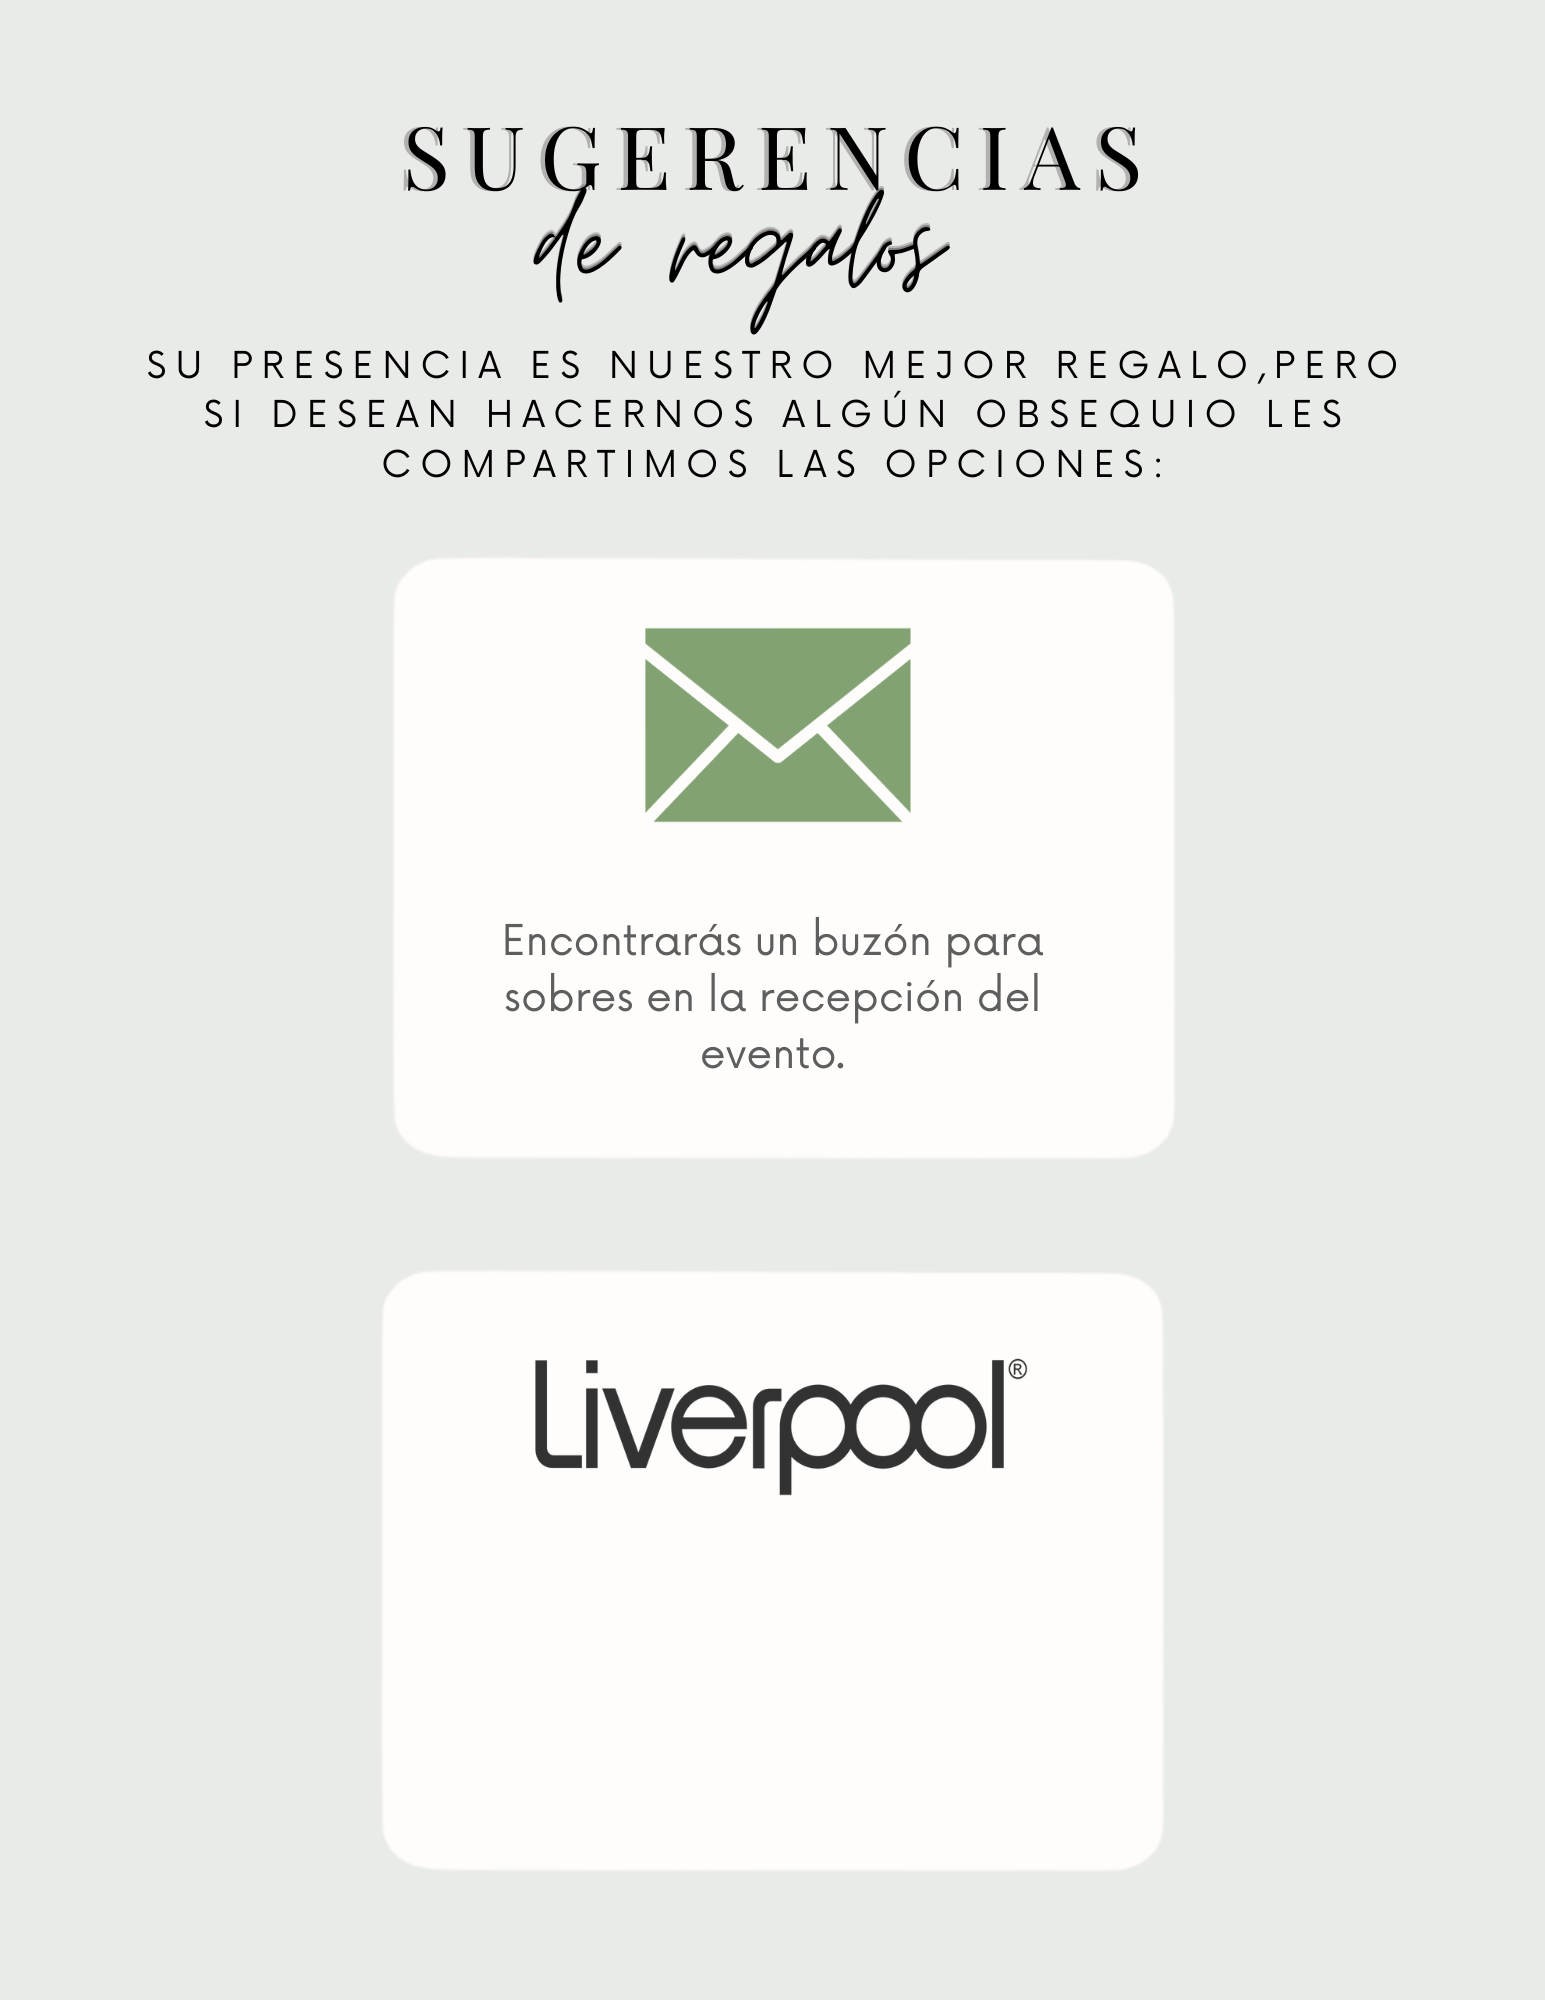
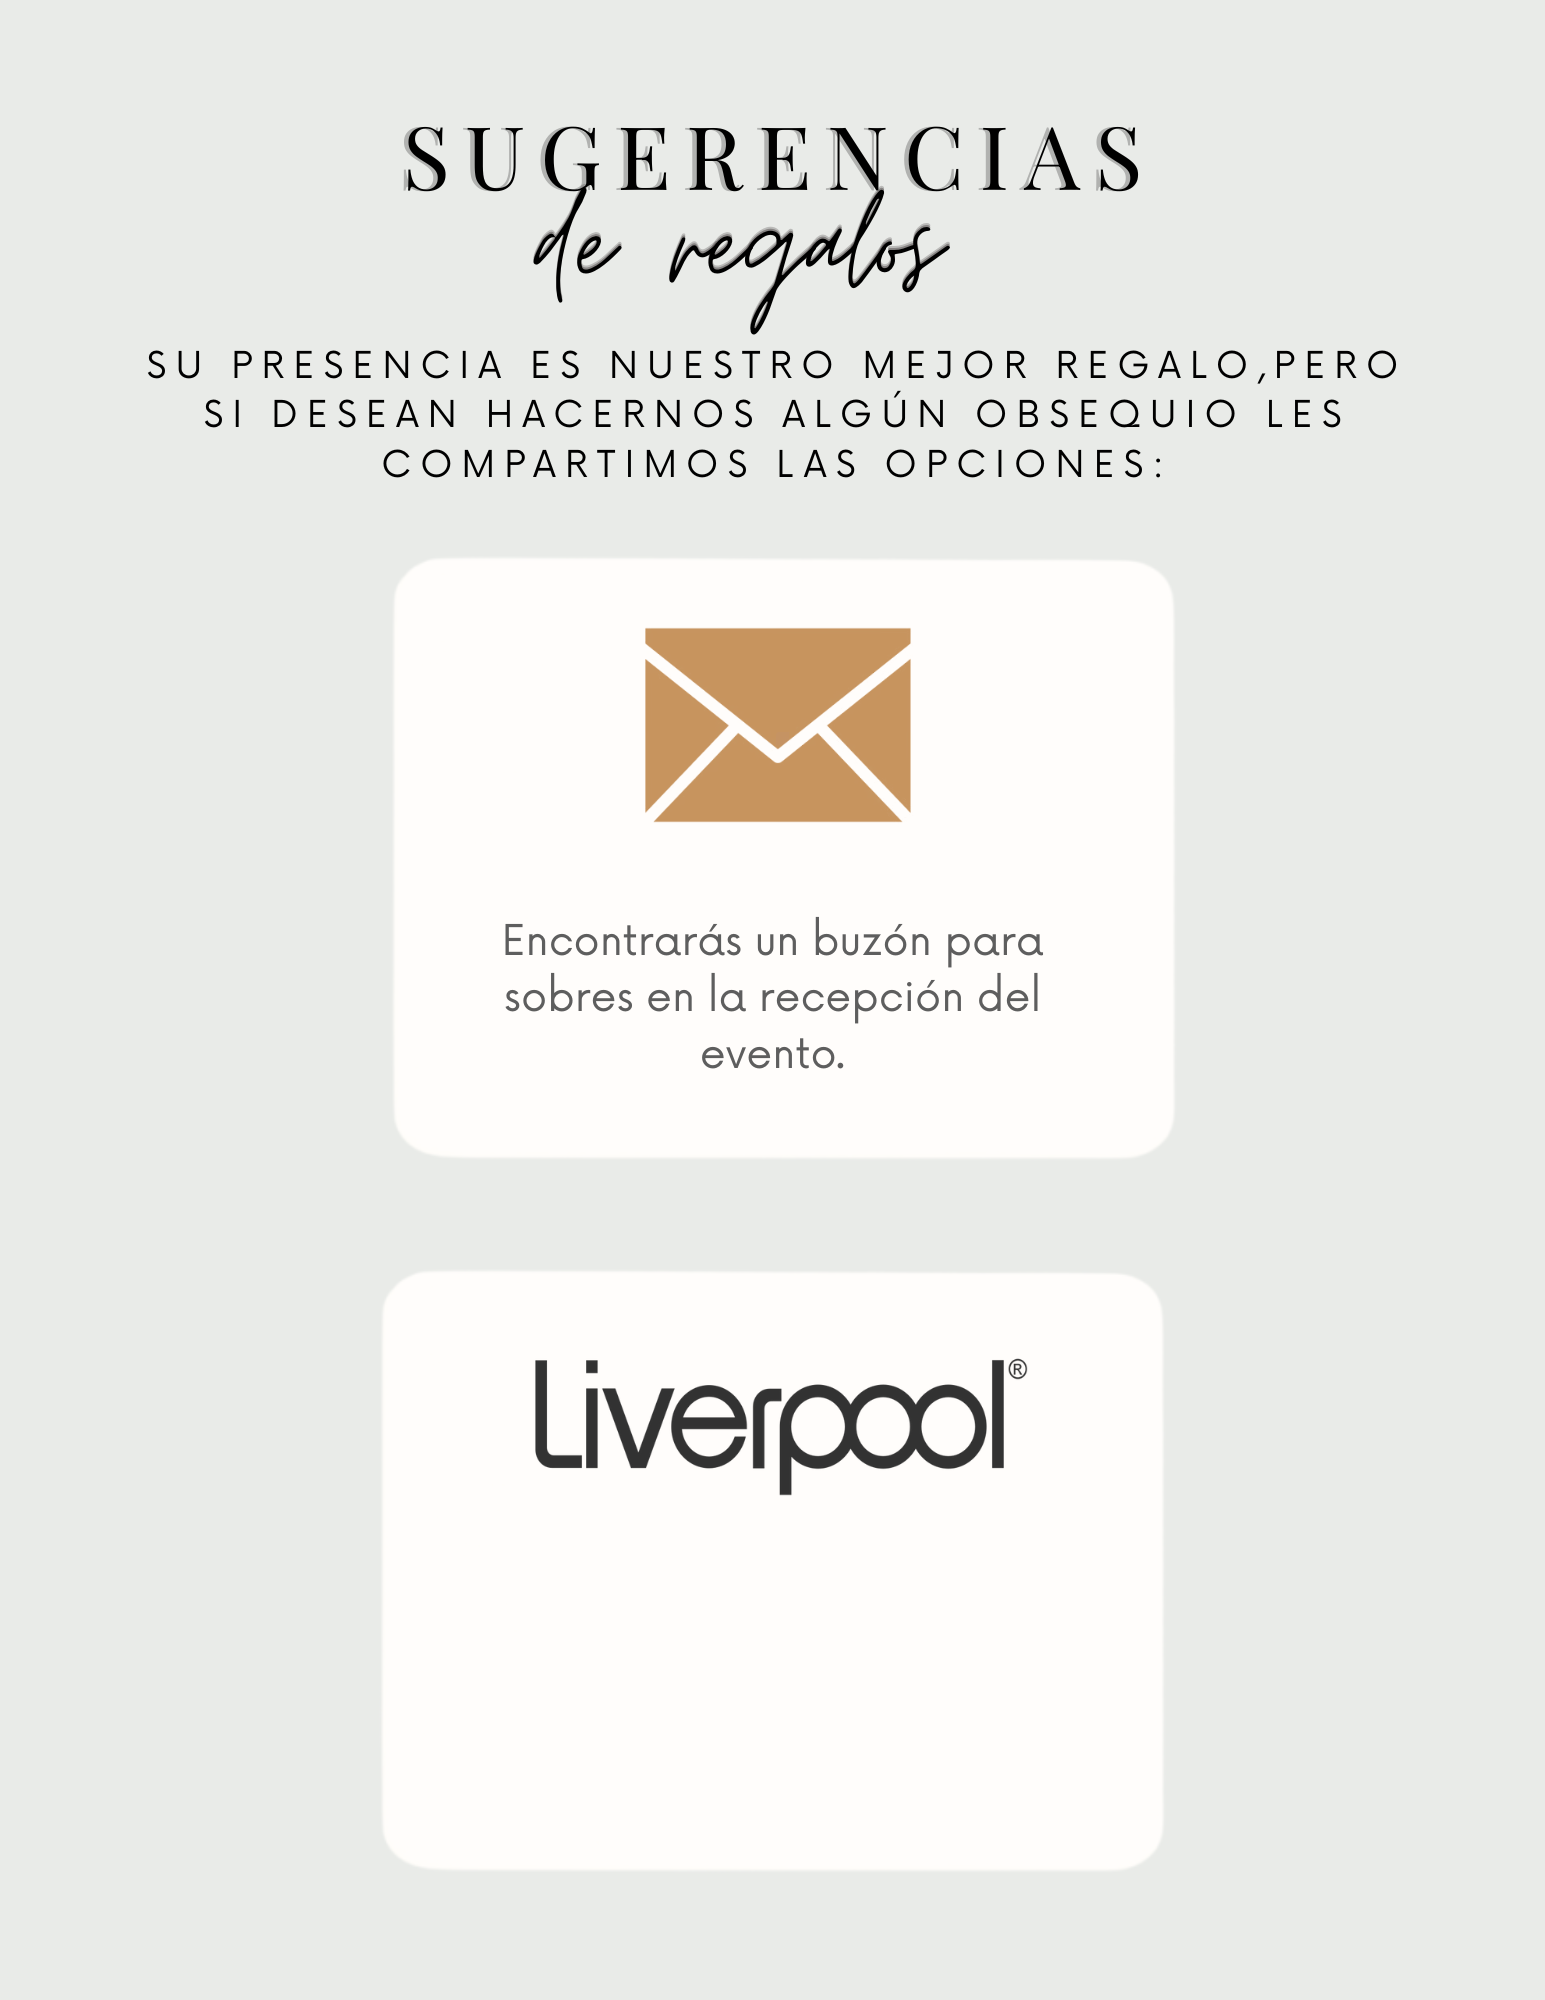
cambios forms

Changed region(s): [[0.4039, 0.31, 0.5903, 0.434]]

diff --git a/naylayale/script.js b/naylayale/script.js
@@ -190,40 +190,6 @@ startAutoplay();
   });
 //fin frase boda
 
-//inicio frase boda final
- window.addEventListener("load", function() {
-    const texto = `Nos encantaría contar con tu presencia para celebrar juntos este día lleno de amor, alegría y momentos inolvidables`;
-
-    const elemento = document.getElementById("frase-boda-final");
-    let i = 0;
-    let escribiendo = false;
-
-    function escribir() {
-      if (i < texto.length) {
-        const caracter = texto[i] === "\n" ? "<br>" : texto[i];
-        elemento.innerHTML += caracter;
-        i++;
-        setTimeout(escribir, 45);
-      } else {
-        elemento.style.setProperty("animation", "none"); // opcional: detiene cursor
-      }
-    }
-
-    
-
-    // Observador para iniciar cuando el elemento esté visible
-    const observer = new IntersectionObserver(entries => {
-      entries.forEach(entry => {
-        if (entry.isIntersecting && !escribiendo) {
-          escribiendo = true;
-          escribir();
-        }
-      });
-    }, { threshold: 0.2 }); // empieza al estar 20% visible
-
-    observer.observe(elemento);
-  });
-//fin frase boda final
 
 //inicio titulo animado
 window.addEventListener('load', () => {
@@ -304,10 +270,12 @@ window.addEventListener('load', () => {
     const invitado = data.find(item => item.id == id);
     const nombreEl = document.getElementById("nombre");
     const personasEl = document.getElementById("personas");
-
+    const idHidden = document.getElementById("idInvitadoHidden");
+    
     if (invitado) {
       if(nombreEl) nombreEl.textContent = invitado.nombre;
       if(personasEl) personasEl.textContent = invitado.personas;
+      if (idHidden) idHidden.value = invitado.id;
 
       // Ajustar máximo de acompañantes basado en pases
       const select = document.getElementById("acompanantes");
@@ -426,30 +394,65 @@ document.addEventListener("DOMContentLoaded", () => {
 //FIN ANIMACION AL HACER SCROLL
 
 
-  // --- Enviar formulario ---
+// --- Enviar formulario ---
+document.addEventListener("DOMContentLoaded", () => {
+  const form = document.getElementById("rsvpForm");
+  const mensaje = document.getElementById("mensaje");
+
   form.addEventListener("submit", (e) => {
     e.preventDefault();
 
-    const nombre = document.getElementById("nombre").value.trim();
-    const telefono = document.getElementById("telefono").value.trim();
-    const asistenciaRadios = document.getElementsByName("entry.1782443328");
-    let asistencia = "";
-    for (let radio of asistenciaRadios) if (radio.checked) { asistencia = radio.value; break; }
+    // --- Referencias ---
+    const nombreInput = document.querySelector('input[name="entry.1850873592"]');
+    const telefonoInput = document.querySelector('input[name="entry.1902016643"]');
+    const comentariosInput = document.querySelector('textarea[name="entry.404057514"]');
+    const asistenciaRadios = document.getElementsByName("entry.207305379");
+    const select = document.querySelector('select[name="acompanantesVisible"]');
+    const hiddenInput = document.querySelector('input[name="entry.1055150468"]');
+    const idHidden = document.getElementById("idInvitadoHidden");
 
-    if (!nombre || !telefono || !asistencia || !select.value) {
+    // Si existe el id del invitado, se asigna
+    if (idHidden && typeof invitado !== "undefined") {
+      idHidden.value = invitado.id;
+    }
+
+    // --- Obtener valores con protección ---
+    const nombre = nombreInput?.value?.trim() || "";
+    const telefono = telefonoInput?.value?.trim() || "";
+    const comentarios = comentariosInput?.value?.trim() || "";
+
+    let asistencia = "";
+    for (let radio of asistenciaRadios) {
+      if (radio.checked) {
+        asistencia = radio.value;
+        break;
+      }
+    }
+
+    // --- Validaciones ---
+    if (!nombre || !telefono || !asistencia || !select?.value) {
       alert("Por favor llena todos los campos antes de enviar.");
       return;
     }
+
     if (!/^\d{10}$/.test(telefono)) {
       alert("Ingresa un número de teléfono válido de 10 dígitos.");
       return;
     }
 
-    hiddenInput.value = select.value;
+    // --- Convertir valor del select a texto y pasarlo al input oculto ---
+    if (hiddenInput && select) {
+      const textoSeleccionado = select.options[select.selectedIndex]?.text || select.value;
+      hiddenInput.value = textoSeleccionado;
+    }
 
-    const url = "https://docs.google.com/forms/u/0/d/e/1FAIpQLScq5NnC41Z2084JKUXn9FKa37_SubxvQdQ22w5XWhGvWhJ3Cw/formResponse";
+    // --- URL del Google Form ---
+    const url = "https://docs.google.com/forms/u/0/d/1pTK1Thh87p9E6UVcsaZr_1oh3wtPdR8NwpokVdnoTSM/formResponse";
+
+    // --- Crear el FormData ---
     const formData = new FormData(form);
 
+    // --- Enviar ---
     fetch(url, { method: "POST", mode: "no-cors", body: formData })
       .then(() => {
         mensaje.textContent = "¡Gracias! Tu confirmación ha sido enviada.";
@@ -459,4 +462,5 @@ document.addEventListener("DOMContentLoaded", () => {
         mensaje.textContent = "Hubo un error, por favor intenta de nuevo.";
       });
   });
+});
 

diff --git a/naylayale/style.css b/naylayale/style.css
@@ -320,7 +320,7 @@ button { margin-top: 20px; }
   display: inline-block;
   margin-top: 20px;
   padding: 10px 25px;
-  background-color: #6b6b26;
+  background-color: #95765c;
   color: white;
   border-radius: 25px;
   text-decoration: none;
@@ -330,7 +330,7 @@ button { margin-top: 20px; }
 }
 
 .celebracion-btn:hover {
-  background-color: #57571e;
+  background-color: #95765ce7;
 }
 
 
@@ -393,7 +393,7 @@ button { margin-top: 20px; }
   display: inline-block;
   margin-top: 20px;
   padding: 10px 25px;
-  background-color: #6b6b26;
+  background-color: #95765c;
   color: white;
   border-radius: 25px;
   text-decoration: none;
@@ -403,7 +403,7 @@ button { margin-top: 20px; }
 }
 
 .celebracion-btnrec:hover {
-  background-color: #57571e;
+  background-color: #95765ce7;
 }
 
 
@@ -547,17 +547,27 @@ button { margin-top: 20px; }
 /*frase de boda final*/
 .frase-boda-final {
     text-align: center;
-    margin-top: 20px;
+    border-radius: 16px;
+    max-width: 400px;
+    margin: 0 auto;
+    padding: 25px;
+  }
+
+  .frase-boda-final h2 {
+  font-family: 'Karla', sans-serif;
+  font-size: 1.2rem;
+  color: #5c5446;
+  font-weight: 300;
+  line-height: 1.6;
+  margin-bottom: 10px;
   }
 
   .frase-boda-final p {
-    font-family: 'Jost', sans-serif;
-    font-size: 1.3rem;
-    color: #3c3c38c5;
-    margin: 20px;
-    display: inline-block;
-    white-space: pre-line; /* respeta los saltos */
-    line-height: 1.5;
+  font-family: 'Dancing Script', cursive;
+  font-size: 2.2em;
+  text-align: center;
+  color: #95765c;
+  margin: 0 0 15px 0;
   }
 
   /* Cursor parpadeante */
@@ -911,7 +921,7 @@ button { margin-top: 20px; }
 
 /* Nombre del invitado */
 #nombre {
-  font-family: 'Great Vibes', cursive; /* fuente elegante */
+  font-family: 'Dancing Script', cursive;
   font-size: 1.8rem;
   color: #3c352a;
 }
@@ -957,7 +967,7 @@ button { margin-top: 20px; }
 .rsvp-section {
   max-width: 250px;              /* más estrecho */
   margin: 50px 30px;             /* centrado vertical y horizontal */
-  padding: 15px 12px;            /* menos padding */
+  padding: 20px 20px;            /* menos padding */
   background-image: url('./images/papel2.png');
   background-size: cover;
   background-position: center;
@@ -1023,7 +1033,7 @@ button { margin-top: 20px; }
 }
 
 .rsvp-form button {
-  background-color: #5a684f;
+  background-color: #95765c;
   color: #fff;
   padding: 7px 15px;            
   border: none;
@@ -1034,14 +1044,14 @@ button { margin-top: 20px; }
 }
 
 .rsvp-form button:hover {
-  background-color: #4f5a3f;
+  background-color: #95765cee;
 }
 
 /* Responsive: móviles */
 @media (max-width: 480px) {
   .rsvp-section {
     max-width: 90%;
-    padding: 12px 10px;
+    padding: 30px 30px;
   }
   .rsvp-form input,
   .rsvp-form select,
@@ -1408,7 +1418,8 @@ button { margin-top: 20px; }
   display: inline-block;
   margin-top: 20px;
   padding: 10px 25px;
-  background-color: #6b6b26;
+  background-color: #95765c;
+;
   color: white;
   border-radius: 25px;
   text-decoration: none;
@@ -1418,7 +1429,7 @@ button { margin-top: 20px; }
 }
 
 .button-vestimenta:hover {
-  background-color: #57571e;
+  background-color: #95765cee;
 }
 
 /* Responsivo */

diff --git a/naylayale/index.html b/naylayale/index.html
@@ -203,67 +203,43 @@
   <p class="tipo">No niños, por favor.</p>
 </section>
 
-
+<!-- FORMS -->
 <section class="rsvp-section" id="confirmacion">
-  <h2 class="section-title">&nbsp;</h2>
-  <p class="section-text">&nbsp;<br>&nbsp;<br>&nbsp;</p>
-
   <form class="rsvp-form" id="rsvpForm">
+    <p>&nbsp;<br> &nbsp; <br> &nbsp;</p>
+
+    <!-- Input oculto para ID de invitado -->
+    <input type="hidden" name="entry.993025194" id="idInvitadoHidden">
+
     <!-- Nombre -->
     <label for="nombre">Nombre:</label>
-    <input type="text" name="entry.692299565" id="nombre" required>
+    <input type="text" name="entry.1850873592" id="nombreforms" required>
 
     <!-- Teléfono -->
     <label for="telefono">Teléfono:</label>
-<input 
-    type="tel" 
-    name="entry.2002604468" 
-    id="telefono" 
-    required 
-    pattern="[0-9]{10}" 
-/>
-
+    <input type="tel" name="entry.1902016643" id="telefono" required pattern="[0-9]{10}" />
 
     <!-- Asistencia -->
-    <label class="question-label">¿Asistirás?</label>
-    <div class="options-inline-center">
-      <label>
-        <input type="radio" name="entry.1782443328" value="Sí"> Sí
-      </label>
-      <label>
-        <input type="radio" name="entry.1782443328" value="No"> No
-      </label>
-    </div>
+    <label>¿Asistirás?</label>
+    <label><input type="radio" name="entry.207305379" value="Sí"> Sí</label>
+    <label><input type="radio" name="entry.207305379" value="No"> No</label>
 
     <!-- Acompañantes -->
     <label for="acompanantes">Número de confirmados:</label>
     <select name="acompanantesVisible" id="acompanantes" required>
       <option value="1">1</option>
-      <option value="2">2</option>
-      <option value="3">3</option>
-      <option value="4">4</option>
-      <option value="5">5</option>
-      <option value="6">6</option>
-      <option value="7">7</option>
     </select>
-    <!-- Input oculto que envía el valor real a Google Forms -->
-    <input type="hidden" name="entry.987654321" id="acompanantesHidden">
-
-<!-- Input oculto de Google Forms -->
-<input type="hidden" name="entry.1874152832" id="acompanantesHidden">
-
+    <input type="hidden" name="entry.1055150468" id="acompanantesHidden">
 
     <!-- Comentarios -->
     <label for="comentarios">Comentarios:</label>
-    <textarea name="entry.1572602636" id="comentarios" rows="3"></textarea>
+    <textarea name="entry.404057514" id="comentarios" rows="3"></textarea>
 
     <button type="submit">Enviar Confirmación</button>
   </form>
 
   <p id="mensaje" style="color:green; text-align:center; margin-top:10px;"></p>
 </section>
-
-
 
 
 <!-- mesa de regalo -->
@@ -307,12 +283,10 @@
 
   <!-- Frase de boda abajo -->
 <div class="frase-boda-final">
-  <p id="frase-boda-final"></p>
+  <h2>Nos encantaría contar con tu presencia para celebrar juntos este día lleno de amor, alegría y momentos inolvidables</h2>
+  <p>TE ESPERAMOS</p>
+
 </div>
-
- <h2 class="section-title animate-on-scroll">TE ESPERAMOS</h2>
-
-
  <footer class="footer">
         <p>© 2025 MidelDigital</p>
     </footer>
